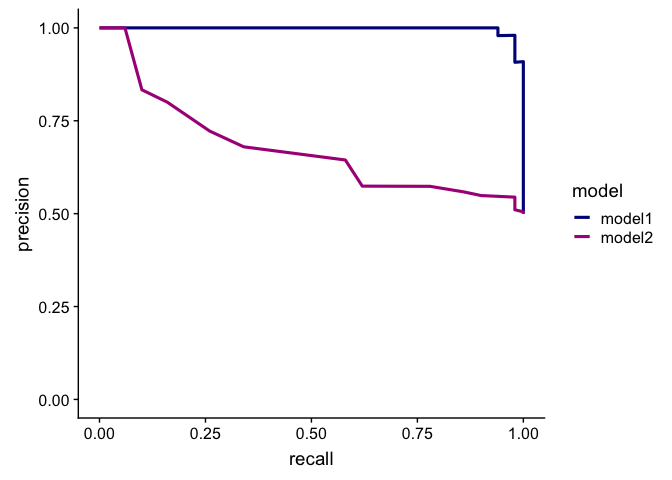
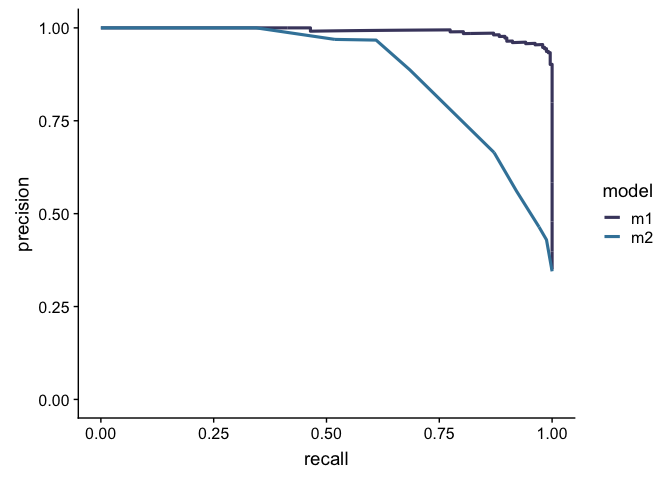
Updating README

diff --git a/README.md b/README.md
@@ -19,14 +19,14 @@ Usage
 intended to work with `broom`, `dplyr`, and `ggplot2`. Here is a simple
 use case.
 
-    glm(outcome ~ predictor1 + predictor2 + predictor3, # fit a model using 3 predictors
-      data = df,
-      family = binomial
+    glm(outcome ~ clump_thickness + uniform_cell_shape, # fit a model using 3 predictors
+      family = binomial,
+      data = biopsy
     ) %>%
       augment() %>% # use broom to add glm output to the original data frame
-      make_roc(predictor = .fitted, known_class = Species) %>% # get values to plot an ROC curve
-      ggplot(aes(x = fpr, y = tpr, color = model)) + # plot false positive rate against true positive rate
-      geom_line(size = 1.1)
+      make_roc(predictor = .fitted, known_class = outcome) %>% # get values to plot an ROC curve
+      ggplot(aes(x = fpr, y = tpr)) + # plot false positive rate against true positive rate
+      geom_line()
 
 Examples
 --------
@@ -39,12 +39,14 @@ binary.
 I load the libraries needed to run the examples below.
 
     # load tidyverse packages
-    library(ggplot2)
-    library(dplyr)
+    library(tidyverse)
     library(broom)
 
     # load cowplot to change plot theme
     library(cowplot)
+
+    # load MASS to access `biopsy` dataset
+    library(MASS)
 
     # load tidyroc
     devtools::load_all(".")
@@ -55,44 +57,61 @@ predict the two species of irises. The first model tries uses petal
 width, petal length, and sepal width as predictors. The second model
 uses only sepal width as a predictor.
 
-    # reduce iris to two species to fit a model that is a binary classifier
-    iris.small <- filter(iris, Species %in% c("virginica", "versicolor"))
+    # change column names from `V1`, `V2`, etc. to informative variable names
+    colnames(biopsy) <- 
+        c("ID",
+          "clump_thickness",
+          "uniform_cell_size",
+          "uniform_cell_shape",
+          "marg_adhesion",
+          "epithelial_cell_size",
+          "bare_nuclei",
+          "bland_chromatin",
+          "normal_nucleoli",
+          "mitoses",
+          "outcome")
 
-    # fit a logistic regression model to the data to assess the model's performance
-    glm.out1 <- glm(Species ~ Petal.Width + Petal.Length + Sepal.Width,
-      data = iris.small,
-      family = binomial
+    # fit a logistic regression model to predict tumor types
+    glm_out1 <- glm(
+      formula = outcome ~ clump_thickness + uniform_cell_shape + marg_adhesion + bare_nuclei + bland_chromatin + normal_nucleoli,
+      family = binomial,
+      data = biopsy
     ) %>%
       augment() %>%
-      mutate(model = "model1") # name the model
+      mutate(model = "m1") # name the model
 
-    ## Warning: glm.fit: fitted probabilities numerically 0 or 1 occurred
-
-    # fit a different logistic regression model to the data to assess this model's performance
-    glm.out2 <- glm(Species ~ Sepal.Width,
-      data = iris.small,
-      family = binomial
+    # fit a different logistic regression model to predict tumor types
+    glm_out2 <- glm(outcome ~ clump_thickness,
+      family = binomial,
+      data = biopsy
     ) %>%
       augment() %>%
-      mutate(model = "model2") # name the model
+      mutate(model = "m2") # name the model
 
     # combine the two datasets to make an ROC curve for each model
-    glm.out <- bind_rows(glm.out1, glm.out2)
+    glm_out <- bind_rows(glm_out1, glm_out2)
 
-Now that I have fitted values, I can make a plot with two ROC curves and
-a plot with two precision-recall curves. I can also calculate the area
-under each of the ROC curves.
+    # plot the distribution of fitted values to see both models' outcomes
+    glm_out %>%
+      ggplot(aes(x = .fitted, fill = outcome)) +
+      geom_density(alpha = 0.6, color = NA) +
+      scale_fill_manual(values = c("#F08A5D", "#B83B5E")) +
+      facet_wrap(~ model)
+
+![](figures/unnamed-chunk-3-1.png) Now that I have fitted values, I can
+make a plot with two ROC curves and a plot with two precision-recall
+curves. I can also calculate the area under each of the ROC curves.
 
 #### Plot ROC curves for 2 different models
 
     # plot ROC curves
-    glm.out %>%
+    glm_out %>%
       group_by(model) %>% # group to get individual ROC curve for each model
-      make_roc(predictor = .fitted, known_class = Species) %>% # get values to plot an ROC curve
+      make_roc(predictor = .fitted, known_class = outcome) %>% # get values to plot an ROC curve
       ggplot(aes(x = fpr, y = tpr, color = model)) +
       geom_line(size = 1.1) +
-      geom_abline(slope = 1, intercept = 0, size = 0.4) + 
-      scale_color_manual(values = c("#001889", "#AB1488")) +
+      geom_abline(slope = 1, intercept = 0, size = 0.4) +
+      scale_color_manual(values = c("#48466D", "#3D84A8")) +
       theme_cowplot()
 
 ![](figures/unnamed-chunk-4-1.png)
@@ -100,26 +119,26 @@ under each of the ROC curves.
 #### Plot precision-recall curves for 2 different models
 
     # plot precision-recall curves using the data-frame we generated in the previous example
-    glm.out %>%
+    glm_out %>%
       group_by(model) %>% # group to get individual precision-recall curve for each model
-      make_pr(predictor = .fitted, known_class = Species) %>% # get values to plot a precision-recall curve
+      make_pr(predictor = .fitted, known_class = outcome) %>% # get values to plot a precision-recall curve
       ggplot(aes(x = recall, y = precision, color = model)) +
       geom_line(size = 1.1) +
-      coord_cartesian(ylim = c(0,1), xlim = c(0,1)) +
-      scale_color_manual(values = c("#001889", "#AB1488")) +
+      coord_cartesian(ylim = c(0, 1), xlim = c(0, 1)) +
+      scale_color_manual(values = c("#48466D", "#3D84A8")) +
       theme_cowplot()
 
 ![](figures/unnamed-chunk-5-1.png)
 
 #### Calculate AUC of two ROC curves
 
-    glm.out %>%
+    glm_out %>%
       group_by(model) %>% # group to get individual precision-recall curve for each model
-      make_roc(predictor = .fitted, known_class = Species) %>% 
+      make_roc(predictor = .fitted, known_class = outcome) %>%
       summarise(auc = calc_auc(x = fpr, y = tpr))
 
     ## # A tibble: 2 x 2
-    ##   model    auc
-    ##   <chr>  <dbl>
-    ## 1 model1 0.997
-    ## 2 model2 0.664
+    ##   model   auc
+    ##   <chr> <dbl>
+    ## 1 m1    0.996
+    ## 2 m2    0.910
